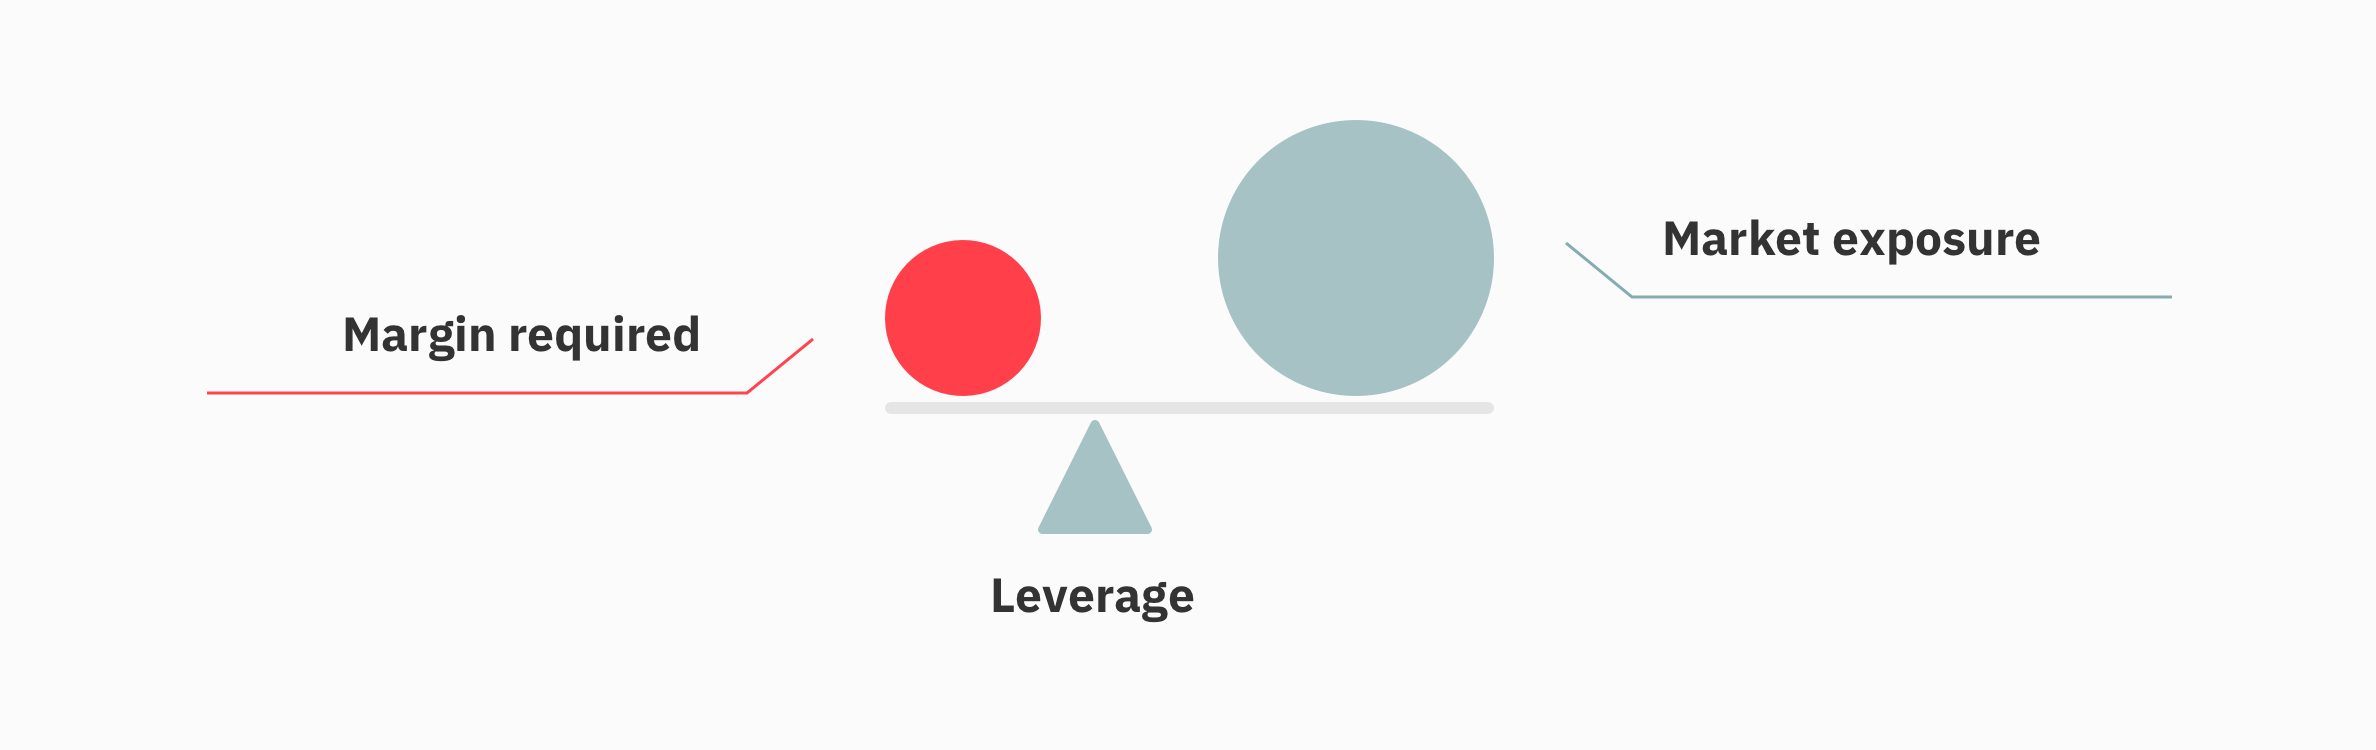
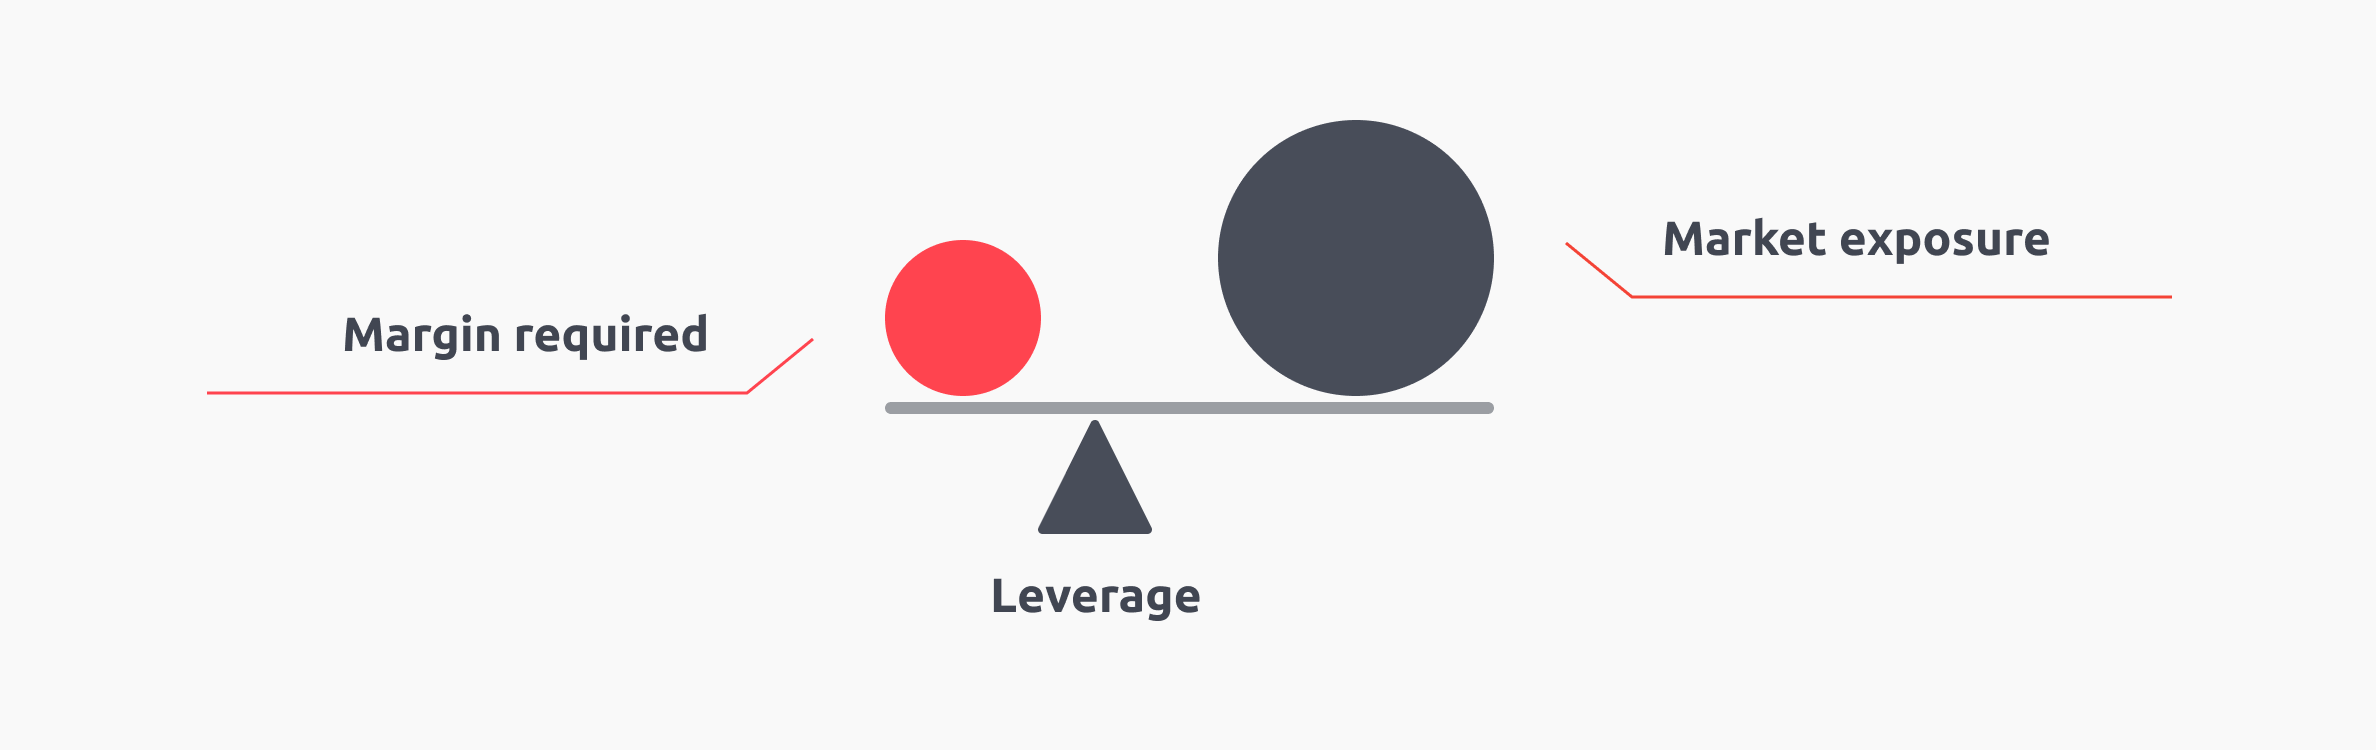
feat: cfds rebranded

diff --git a/src/pages/trade-types/cfds/_start-trading.tsx b/src/pages/trade-types/cfds/_start-trading.tsx
@@ -1,70 +1,37 @@
 import React from 'react'
-import Timeline from '../components/_timeline'
-import { SmallContainer, StartTradingBg } from '../components/_style'
-import { localize, Localize } from 'components/localization'
-import { LinkButton } from 'components/form'
-import { Header } from 'components/elements'
+import { SmallContainer } from '../components/_style'
+import CommonHeaderSection from 'components/elements/common-header-section'
+import { localize } from 'components/localization'
+import { StepperView , Header } from 'components/elements'
 import useRegion from 'components/hooks/use-region'
-import useScreenSize from 'components/hooks/use-screen-size'
 
 const StartTrading = () => {
     const { is_eu } = useRegion()
-    const { is_mobile_or_tablet } = useScreenSize()
     return (
         <>
-            <StartTradingBg>
-                <SmallContainer direction="column" ai="flex-start">
-                    {is_mobile_or_tablet ? (
-                        <Header as="h3" type="section-title" mb="4rem">
-                            {localize('Start trading CFDs on Deriv')}
-                        </Header>
-                    ) : (
-                        <Header as="h3" type="section-title" mb="4rem">
-                            <Localize
-                                translate_text="Start trading CFDs on <0/>Deriv<0/>"
-                                components={[<br key={0} />]}
-                            />
-                        </Header>
-                    )}
-                    <Timeline>
-                        <Timeline.Item title={<Localize translate_text="Practise" />}>
-                            {is_eu
-                                ? localize(
-                                      'Open a demo CFDs account and practise with an unlimited amount of virtual funds.',
-                                  )
-                                : localize(
-                                      'Open a demo Deriv MT5 or demo Deriv X account and practise with an unlimited amount of virtual funds.',
-                                  )}
-                        </Timeline.Item>
-                        <Timeline.Item title={<Localize translate_text="Trade" />}>
-                            {is_eu
-                                ? localize(
-                                      'Trade with a real CFDs account. Get access to leverage and trade positions larger than your existing capital.',
-                                  )
-                                : localize(
-                                      'Trade with a real Deriv MT5 or real Deriv X account and get access to high leverage to trade positions larger than your existing capital.',
-                                  )}
-                        </Timeline.Item>
-                        <Timeline.Item title={<Localize translate_text="Withdraw" />}>
-                            {localize(
-                                'Conveniently withdraw your funds through any of our supported withdrawal methods.',
-                            )}
-                        </Timeline.Item>
-                    </Timeline>
-                    <LinkButton
-                        id="dm-dmt5-signup"
-                        mt="4rem"
-                        external
-                        type="mt5"
-                        to="#demo"
-                        target="_blank"
-                        rel="noopener noreferrer"
-                        secondary
-                    >
-                        {localize('Create free demo account')}
-                    </LinkButton>
-                </SmallContainer>
-            </StartTradingBg>
+            <SmallContainer direction="column" ai="flex-start">
+                <CommonHeaderSection
+                    title="_t_Start trading CFDs on Deriv_t_"
+                    title_font_size="3.2rem"
+                    margin_title="15rem 0 7rem 0"
+                />
+                <StepperView
+                    first_step_title="_t_Practise_t_"
+                    first_step_subtitle={
+                        is_eu
+                            ? '_t_Open a demo CFDs account and practise with an unlimited amount of virtual funds._t_'
+                            : '_t_Open a demo Deriv MT5 or demo Deriv X account and practise with an unlimited amount of virtual funds._t_'
+                    }
+                    second_step_title="_t_Trade_t_"
+                    second_step_subtitle={
+                        is_eu
+                            ? '_t_Trade with a real CFDs account. Get access to leverage and trade positions larger than your existing capital._t_'
+                            : '_t_Trade with a real Deriv MT5 or real Deriv X account and get access to high leverage to trade positions larger than your existing capital._t_'
+                    }
+                    third_step_title="_t_Withdraw_t_"
+                    third_step_subtitle="_t_Conveniently withdraw your funds through any of our supported withdrawal methods._t_"
+                />
+            </SmallContainer>
         </>
     )
 }

diff --git a/src/pages/trade-types/content/static/_cfd.tsx b/src/pages/trade-types/content/static/_cfd.tsx
@@ -1,52 +1,73 @@
 import React from 'react'
 import { Localize } from 'components/localization'
 import FriendlySupport from 'images/svg/markets/forex/smart.svg'
-import Leverage from 'images/svg/markets/forex/spread.svg'
-import ResponsiveWebsite from 'images/svg/markets/forex/platforms.svg'
-import Deposit from 'images/svg/markets/forex/deposit.svg'
+import Tight from 'images/svg/markets/forex/tight.svg'
+import Favourite from 'images/svg/markets/forex/favourite.svg'
+import Golong from 'images/svg/markets/forex/go-long.svg'
+import Instant from 'images/svg/markets/forex/instant.svg'
 
 type cfd_content = {
     src: string
     text: React.ReactNode
     item_title: React.ReactNode
+    item_title_eu?: React.ReactNode
+    text_eu?: React.ReactNode
     alt: string
 }
 
 export const cfd_content: cfd_content[] = [
     {
-        src: Deposit,
+        src: Tight,
         alt: 'High leverage, tight spreads',
+        item_title_eu: <Localize translate_text="Tight spreads" />,
         item_title: <Localize translate_text="High leverage, tight spreads" />,
         text: (
             <Localize translate_text="Take advantage of high leverage and tight spreads on Deriv’s CFD trading platforms." />
         ),
+        text_eu: (
+            <Localize translate_text="Take advantage of tight spreads on Deriv’s CFD trading platforms." />
+        ),
     },
     {
-        src: Leverage,
+        src: Favourite,
         alt: 'All your favourite markets',
         item_title: <Localize translate_text="All your favourite markets" />,
+        item_title_eu: <Localize translate_text="All your favourite markets" />,
+
         text: (
+            <Localize translate_text="Trade on financial markets plus our proprietary synthetics that are available 24/7." />
+        ),
+        text_eu: (
             <Localize translate_text="Trade on financial markets plus our proprietary synthetics that are available 24/7." />
         ),
     },
     {
-        src: Deposit,
+        src: Golong,
         alt: 'Easy deposits and withdrawals',
         item_title: <Localize translate_text="Go long or short" />,
+        item_title_eu: <Localize translate_text="Go long or short" />,
+
         text: (
+            <Localize translate_text="Open long or short positions based on your predictions of the market price movements." />
+        ),
+        text_eu: (
             <Localize translate_text="Open long or short positions based on your predictions of the market price movements." />
         ),
     },
     {
-        src: ResponsiveWebsite,
+        src: FriendlySupport,
         alt: 'Expert and friendly support',
         item_title: <Localize translate_text="Expert and friendly support" />,
+        item_title_eu: <Localize translate_text="Expert and friendly support" />,
         text: <Localize translate_text="Get expert, friendly support when you need it." />,
+        text_eu: <Localize translate_text="Get expert, friendly support when you need it." />,
     },
     {
-        src: FriendlySupport,
+        src: Instant,
         alt: 'Instant access',
         item_title: <Localize translate_text="Instant access" />,
+        item_title_eu: <Localize translate_text="Instant access" />,
         text: <Localize translate_text="Open an account and start trading in minutes." />,
+        text_eu: <Localize translate_text="Open an account and start trading in minutes." />,
     },
 ]

diff --git a/src/pages/trade-types/cfds/index.tsx b/src/pages/trade-types/cfds/index.tsx
@@ -9,12 +9,15 @@ import Layout from 'components/layout/layout'
 import { Localize, localize, WithIntl } from 'components/localization'
 import { FullWidthMultiColumn } from 'components/elements/full-width-multicolumn'
 import { StyledBox } from 'pages/markets/static/style/_markets-style'
+import useRegion from 'components/hooks/use-region'
+
 const TradingCFDIncreases = Loadable(() => import('./_trading-cfd-increases'))
 const StartTrading = Loadable(() => import('./_start-trading'))
 const ThingsToKeep = Loadable(() => import('./_mind-when-trading'))
 const AvailableMarkets = Loadable(() => import('./_available-markets'))
 
 const CFD = () => {
+    const { is_eu, is_row } = useRegion()
     return (
         <Layout>
             <SEO
@@ -25,7 +28,7 @@ const CFD = () => {
             />
             <Hero jc="cneter" ai="center">
                 <SmallContainer>
-                    <Header as="h1" type="display-title" color="white" align="center">
+                    <Header as="h1" type="display-title" color="red" align="center">
                         {localize('CFD trading')}
                     </Header>
                 </SmallContainer>
@@ -33,6 +36,7 @@ const CFD = () => {
             <WhatIsCFD />
             <ThingsToKeep />
             <TradingCFDIncreases />
+
             <FullWidthMultiColumn
                 multiple_row={true}
                 header={<Localize translate_text="Why trade on CFDs on Deriv" />}
@@ -41,13 +45,14 @@ const CFD = () => {
             >
                 {cfd_content.map((content, index) => (
                     <StyledBox
-                        item_title={content.item_title}
+                        item_title={is_eu ? content.item_title_eu : content.item_title}
                         key={index}
-                        text={content.text}
+                        text={is_eu ? content.text_eu : content.text}
                         icon={<img src={content.src} alt={content.alt} />}
                     />
                 ))}
             </FullWidthMultiColumn>
+
             <StartTrading />
             <AvailableMarkets />
         </Layout>

diff --git a/src/components/elements/full-width-multicolumn.tsx b/src/components/elements/full-width-multicolumn.tsx
@@ -1,12 +1,13 @@
 import React, { ReactElement } from 'react'
 import styled from 'styled-components'
 import CommonHeaderSection from './common-header-section'
+import { LinkButton } from 'components/form'
 import { SectionContainer, Flex, Box } from 'components/containers'
 import { Header, Text } from 'components/elements'
 import Button from 'components/custom/_button'
 import device from 'themes/device'
 import { TString } from 'types/generics'
-import { localize } from 'components/localization'
+import useHandleSignup from 'components/hooks/use-handle-signup'
 
 type FullWidthMultiColumnProps = {
     children?: ReactElement[]
@@ -14,6 +15,7 @@ type FullWidthMultiColumnProps = {
     button_title?: ReactElement
     button_text?: TString | ReactElement
     multiple_row?: boolean
+    button_redirection?: string
 }
 
 const Item = styled(Flex)`
@@ -106,7 +108,10 @@ export const FullWidthMultiColumn = ({
     multiple_row,
     button_title,
     button_text,
+    button_redirection,
 }: FullWidthMultiColumnProps) => {
+    const handleSignup = useHandleSignup()
+
     const first_three_items = children.slice(0, 3)
     const last_two = children.slice(3)
     const items = multiple_row ? [first_three_items, last_two] : [children]
@@ -132,7 +137,7 @@ export const FullWidthMultiColumn = ({
                     </ItemContainer>
                 ))}
                 {button_title && <StyledTextContent>{button_title}</StyledTextContent>}
-                {button_text && <Button label={button_text} primary />}
+                {button_text && <Button onClick={handleSignup} label={button_text} primary />}
             </Flex>
         </StyledSectionContainer>
     )

diff --git a/src/pages/trade-types/cfds/_mind-when-trading.tsx b/src/pages/trade-types/cfds/_mind-when-trading.tsx
@@ -2,7 +2,8 @@ import React from 'react'
 import styled from 'styled-components'
 import { graphql, useStaticQuery } from 'gatsby'
 import { SmallContainer } from '../components/_style'
-import { StyledLinkButton } from './_trading-cfd-increases'
+import { LinkButton } from 'components/form'
+import Button from 'components/custom/_button'
 import { SectionContainer, Desktop, Mobile } from 'components/containers'
 import { Header, Text, QueryImage } from 'components/elements'
 import { localize } from 'components/localization'
@@ -32,6 +33,14 @@ const StyledSectionContainer = styled(SectionContainer)`
     }
 `
 
+const StyledButton = styled(LinkButton)`
+    margin-top: 2.4rem;
+    margin-bottom: 2rem;
+    @media ${device.tabletL} {
+        margin-top: 0.8rem;
+        margin-bottom: 1.6rem;
+    }
+`
 const MindWhenTrading = () => {
     const data = useStaticQuery(query)
 
@@ -74,10 +83,9 @@ const MindWhenTrading = () => {
                         'Use our margin calculator to calculate the margin required to increase your market exposure (the market value of your position) on Deriv’s CFD trading platforms.',
                     )}
                 </Text>
-
-                <StyledLinkButton mt="4rem" secondary to="/trader-tools/margin-calculator/">
-                    {localize('Margin calculator')}
-                </StyledLinkButton>
+                <StyledButton to="/trader-tools/margin-calculator/">
+                    <Button label="Margin Calculator" primary />
+                </StyledButton>
             </SmallContainer>
         </StyledSectionContainer>
     )

diff --git a/src/pages/trade-types/cfds/_trading-cfd-increases.tsx b/src/pages/trade-types/cfds/_trading-cfd-increases.tsx
@@ -3,6 +3,7 @@ import styled from 'styled-components'
 import { graphql, useStaticQuery } from 'gatsby'
 import { SmallContainer } from '../components/_style'
 import { SectionContainer, Desktop, Mobile } from 'components/containers'
+import Button from 'components/custom/_button'
 import { Header, Text, QueryImage } from 'components/elements'
 import { LinkButton } from 'components/form'
 import useRegion from 'components/hooks/use-region'
@@ -52,6 +53,14 @@ const ExampleImage = styled(QueryImage)<ExampleImageType>`
     @media ${device.mobileM} {
         width: 289px;
         height: 454px;
+    }
+`
+const StyledButton = styled(LinkButton)`
+    margin-top: 2.4rem;
+    margin-bottom: 2rem;
+    @media ${device.tabletL} {
+        margin-top: 0.8rem;
+        margin-bottom: 1.6rem;
     }
 `
 
@@ -208,9 +217,9 @@ const TradingCFDIncreases = () => {
                     )}
                 </Text>
 
-                <StyledLinkButton mb="4rem" secondary to="/trader-tools/swap-calculator/">
-                    {localize('Swap calculator')}
-                </StyledLinkButton>
+                <StyledButton to="/trader-tools/swap-calculator/">
+                    <Button label="Swap Calculator" primary />
+                </StyledButton>
             </SmallContainer>
         </StyledSectionContainer>
     )

diff --git a/src/pages/trade-types/cfds/_available-markets.tsx b/src/pages/trade-types/cfds/_available-markets.tsx
@@ -8,10 +8,10 @@ import { Header, Text } from 'components/elements'
 import { localize, Localize } from 'components/localization'
 import useRegion from 'components/hooks/use-region'
 import Forex from 'images/svg/trade-types/forex.svg'
+import Cryptocurrencies from 'images/svg/trade-types/cryptocurrencies.svg'
 import Commodities from 'images/svg/trade-types/commodities.svg'
 import Derived from 'images/svg/trade-types/derived.svg'
 import StockIndices from 'images/svg/trade-types/stock-indices.svg'
-import Cryptocurrencies from 'images/svg/trade-types/cryptocurrencies.svg'
 
 const MobileCardHeader = styled(Flex)`
     margin-bottom: 0.8rem;
@@ -58,7 +58,7 @@ const available_markets = [
         img_alt: 'derived',
         text: <Localize translate_text="Derived" />,
         description: (
-            <Localize translate_text="Enjoy trading markets and indices mimicking actual market movements, with little to no disruption from real-world events." />
+            <Localize translate_text="Trading derived indices lets you benefit from correctly predicting the price movements of simulated markets and indices derived from real-world markets." />
         ),
         learn_more_path: '/markets/synthetic/',
     },

diff --git a/src/pages/trade-types/cfds/_what_is_cfd.tsx b/src/pages/trade-types/cfds/_what_is_cfd.tsx
@@ -15,14 +15,14 @@ const WhatIsCFD = () => {
                 </Header>
                 <Text mb="3.2rem">
                     {localize(
-                        'A CFD (contract for difference) allows you to trade on the price movement of an asset, without buying the underlying asset.',
+                        'A contract for difference (CFD) allows you to trade on the price movement of an asset, without buying the underlying asset.',
                     )}
                 </Text>
 
                 {is_eu ? (
                     <Text mb="3.2rem">
                         {localize(
-                            '  On Deriv, you can trade CFDs with tight spreads. The spread is the difference between the buy price and sell price. The tighter the spread, the lower the cost to enter the market.',
+                            'On Deriv, you can trade CFDs with tight spreads. The spread is the difference between the buy price and sell price. The tighter the spread, the lower the cost to enter the market.',
                         )}
                     </Text>
                 ) : (

diff --git a/src/pages/markets/static/style/_markets-style.tsx b/src/pages/markets/static/style/_markets-style.tsx
@@ -260,6 +260,8 @@ export const Title = styled(Text)`
 type StyledBoxProps = {
     text: React.ReactNode
     item_title?: React.ReactNode
+    item_title_eu?: React.ReactNode
+    text_eu?: React.ReactNode
     icon: ReactElement
 }
 export const StyledBox = styled(Box)<StyledBoxProps>`
